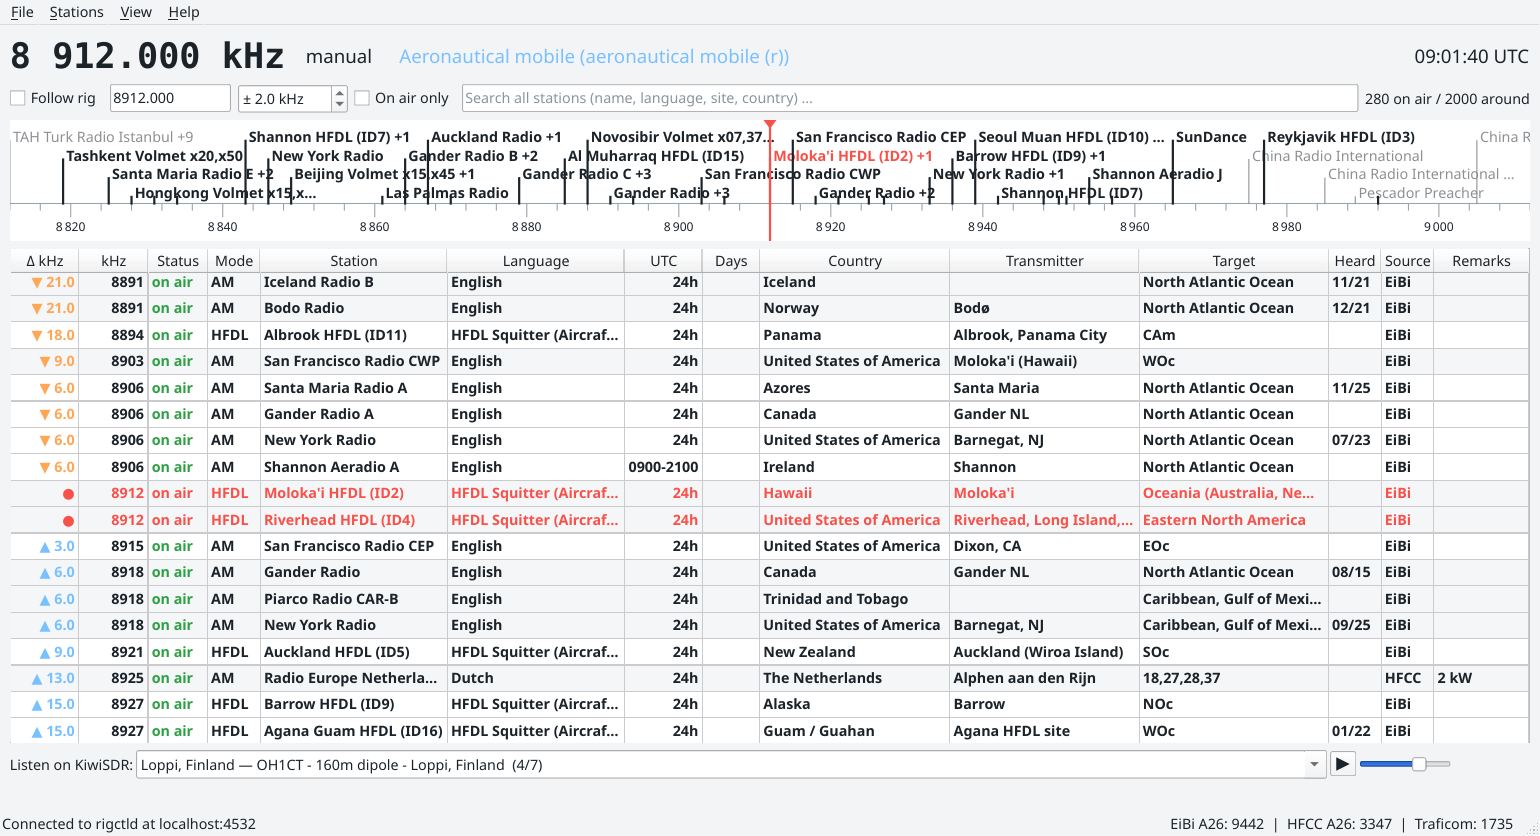
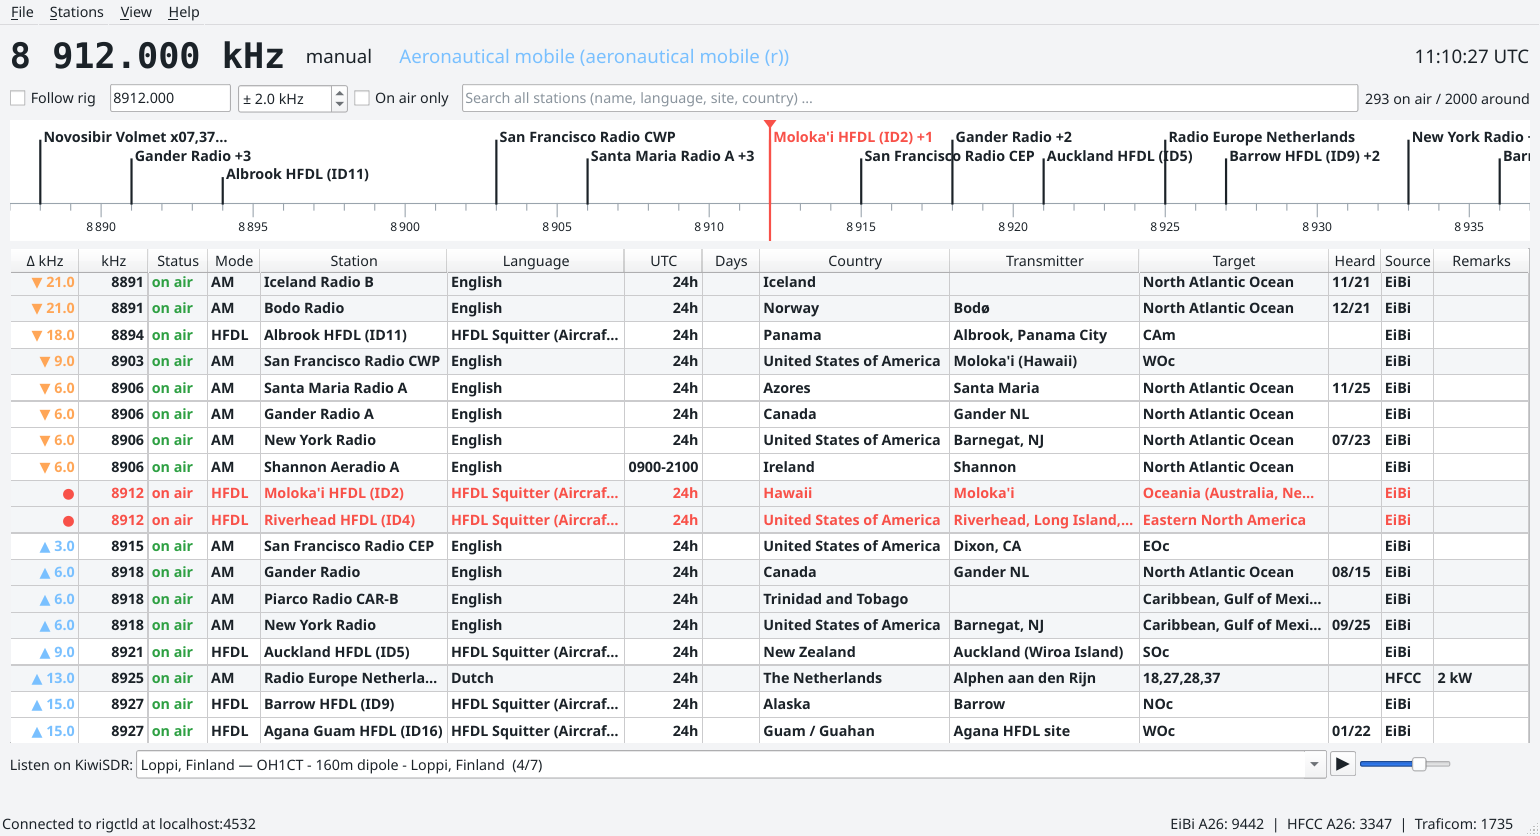
Dial scale: 100 kHz default span, zoom remembered; new screenshot

diff --git a/src/app/SettingsDialog.cpp b/src/app/SettingsDialog.cpp
@@ -28,7 +28,7 @@ const char* kKeys[] = {"rig.host", "rig.port", "rig.pollMs", "view.toleranceKHz"
                        "rigctld.device", "rigctld.baud", "rigctld.extra", "view.ituRegion",
                        "update.check", "update.url", "view.scale", "view.table",
                        "view.player", "kiwi.receivers", "kiwi.current", "kiwi.volume",
-                       "data.traficomUrl", "data.traficomEnabled"};
+                       "data.traficomUrl", "data.traficomEnabled", "view.scaleSpan"};
 QString key(int i) { return QStringLiteral("settings.") + QLatin1String(kKeys[i]); }
 bool toBool(const QString& v, bool fallback)
 {
@@ -80,6 +80,7 @@ void AppSettings::load(const StationDb* db)
     kiwiVolume = qBound(0, int(num(28, kiwiVolume)), 100);
     traficomUrl = str(29, traficomUrl);
     traficomEnabled = toBool(str(30, QString()), traficomEnabled);
+    scaleSpanKHz = qBound(5.0, num(31, scaleSpanKHz), 20000.0);
 }
 
 void AppSettings::save(StationDb* db) const
@@ -95,7 +96,8 @@ void AppSettings::save(StationDb* db) const
         rigctldExtra, QString::number(ituRegion), QString::number(updateCheck ? 1 : 0), updateUrl,
         QString::number(showScale ? 1 : 0), QString::number(showTable ? 1 : 0),
         QString::number(showPlayer ? 1 : 0), kiwiReceivers.join(QLatin1Char('\n')), kiwiCurrent,
-        QString::number(kiwiVolume), traficomUrl, QString::number(traficomEnabled ? 1 : 0)};
+        QString::number(kiwiVolume), traficomUrl, QString::number(traficomEnabled ? 1 : 0),
+        QString::number(scaleSpanKHz)};
     for (int i = 0; i < int(sizeof(kKeys) / sizeof(kKeys[0])); ++i)
         db->setMeta(key(i), values[i]);
 }

diff --git a/src/app/MainWindow.cpp b/src/app/MainWindow.cpp
@@ -468,6 +468,9 @@ void MainWindow::buildUi()
     connect(m_scale, &DialScale::tuneRequested, this, [this](double kHz) {
         tuneTo(kHz, QString());
     });
+    connect(m_scale, &DialScale::spanChanged, this, [this](double kHz) {
+        m_settings.scaleSpanKHz = kHz;   // the zoom is remembered
+    });
 
     m_player = new KiwiPlayer;
     m_player->setVisible(false);
@@ -575,6 +578,7 @@ void MainWindow::applySettings()
         b5(m_scaleAction), b6(m_tableAction);
     m_scaleAction->setChecked(m_settings.showScale);
     m_scale->setVisible(m_settings.showScale);
+    m_scale->setSpanKHz(m_settings.scaleSpanKHz);
     m_tableAction->setChecked(m_settings.showTable);
     m_table->setVisible(m_settings.showTable);
     {

diff --git a/src/app/DialScale.h b/src/app/DialScale.h
@@ -32,6 +32,7 @@ public:
 
 signals:
     void tuneRequested(double kHz);
+    void spanChanged(double kHz);
 
 protected:
     void paintEvent(QPaintEvent*) override;
@@ -47,7 +48,7 @@ private:
     static double niceStep(double kHzPerPixel, int pixelsWanted);
 
     double m_centre = 0.0;
-    double m_span = 200.0;       // width of the visible scale in kHz
+    double m_span = 100.0;       // width of the visible scale in kHz
     double m_highlight = 0.0;
     QVector<Mark> m_marks;
     // dragging the scale moves the pointer without touching the rig

diff --git a/src/app/SettingsDialog.h b/src/app/SettingsDialog.h
@@ -44,6 +44,7 @@ struct AppSettings
     bool showScale = true;
     bool showTable = true;
     bool showPlayer = false;
+    double scaleSpanKHz = 100.0;   // width of the dial scale
     QStringList kiwiReceivers;
     QString kiwiCurrent;
     int kiwiVolume = 70;

diff --git a/src/app/DialScale.cpp b/src/app/DialScale.cpp
@@ -234,6 +234,7 @@ void DialScale::wheelEvent(QWheelEvent* event)
             idx = i;
     idx = qBound(0, idx - steps, int(std::size(spans)) - 1);   // wheel up = zoom in
     setSpanKHz(spans[idx]);
+    emit spanChanged(m_span);
     event->accept();
 }
 
